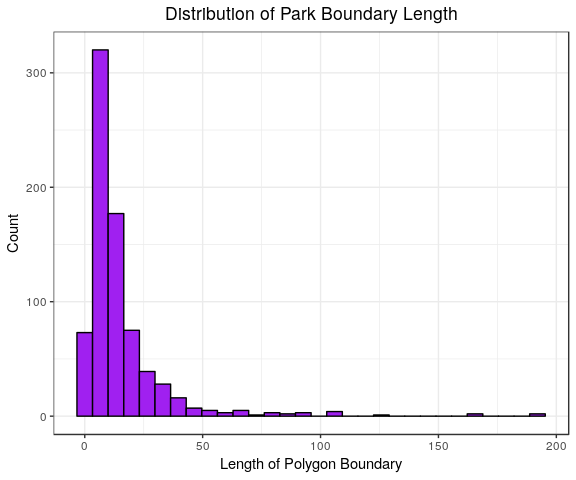
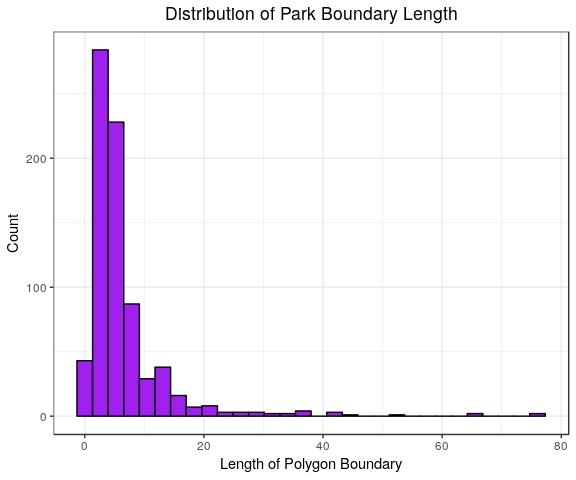
Adding final code for calling time-distance data from API and writing out .RDS files for each variable as the parallelized function runs through all the observations.

diff --git a/src/distance_exploration/osm_distance_time_calc.md b/src/distance_exploration/osm_distance_time_calc.md
@@ -24,7 +24,18 @@ osm.df    <- read_csv("./data/working/OSM_joined/7_10_2019_osm_joined.csv")
 ``` r
 osm.dim   <- dim(osm.df)
 osm.names <- names(osm.df) %>% paste0(., collapse = ", ")
+
+
+table(osm.df$variable)
 ```
+
+    ## 
+    ##       Alcohol   Convenience     Fast Food   Gas Station          Park 
+    ##            86           295           818           689         22915 
+    ##    Playground    Restaurant Sports Center   Supermarket Swimming Pool 
+    ##          4076          1490           594           950          4853 
+    ##    Team Sport         Track 
+    ##          9226          2037
 
 The dimensions of the raw data are 48029, , 5, and the variables contained are named environment, variable, object\_id, longitude, latitude.
 
@@ -66,28 +77,35 @@ park.df %>%
 
 <img src="osm_distance_time_calc_files/figure-markdown_github/unnamed-chunk-2-1.png" width="90%" />
 
+``` r
+#Actual unique number of parks
+nrow(park.df)
+```
+
+    ## [1] 766
+
 As the variability in length (analogous to the size of park) is quite high, quite a few small parks and quite a few extremely large parks. As such we will take a random sample that is proportionate to the size of the park. To do say we say we will sample 25% of the boundary points at random.
 
 ``` r
 #Mutating/sampling the spatial data by park object_id
-park.df <- park.df %>%
+park.samp.df <- park.df %>%
   mutate(
     data = map(.x = data, 
-               ~ slice(.x, sample(1:nrow(.x), (nrow(.x)/2) %>%ceiling(), replace = FALSE))
+               ~ slice(.x, sample(1:nrow(.x), (nrow(.x)/5) %>% ceiling(), replace = FALSE))
                ),
     length_new = map_dbl(data, nrow)
   )
 
 #Check out new length of Parks
-park.df$length_new %>% summary()
+park.samp.df$length_new %>% summary()
 ```
 
     ##    Min. 1st Qu.  Median    Mean 3rd Qu.    Max. 
-    ##    1.00    6.00    9.00   15.23   17.00  193.00
+    ##   1.000   3.000   4.000   6.379   7.000  77.000
 
 ``` r
 #Distribution
-park.df %>%
+park.samp.df %>%
   ggplot(aes(x = length_new)) +
   geom_histogram(fill = "purple", colour = "black") +
   labs(
@@ -99,22 +117,137 @@ park.df %>%
 
 <img src="osm_distance_time_calc_files/figure-markdown_github/unnamed-chunk-3-1.png" width="90%" />
 
-#### c. Replace PArk Data in OSM Final Data
+#### c. Alternatively make a Park centroid variable
+
+``` r
+#Mutating/sampling the spatial data by park object_id
+park.cent.df <- park.df %>%
+  mutate(
+    data = map(.x = data, 
+               ~ ifelse(nrow(data) > 2,
+                        centroid(.x) %>%
+                        as_tibble(),
+                        data %>%
+                          slice(1)
+                       )
+               )
+  ) %>% unnest()
+```
+
+#### d. Replace Park Data in OSM Final Data (either centroid or sample)
 
 ``` r
 osm.df <- osm.df %>%
   nest(-c(environment, variable)) %>%
   mutate(
     data = ifelse(variable == "Park", 
-                  park.df %>%
+                  park.samp.df %>%  #Choose which park .df
                   dplyr::select(object_id, data) %>%
                   unnest(),
                   data),
     data = map(data, as_tibble)
   )
+```
 
+#### e. For Now, filter out park; will deal with later
 
-
+``` r
 osm.df <- osm.df %>%
+  filter(variable != "Park") %>%
   unnest()
+
+nrow(osm.df)
+```
+
+    ## [1] 25114
+
+2. Calculate Distance Time
+==========================
+
+``` r
+#Gather API Keys and ID's
+api.id   <- c("3c54476f",
+              "12251934",
+              "b777323f",
+              "6969dd9f",
+              "c1c5c35f",
+              "5c7a743f",
+              "d5a88656",
+              "57763cf3"
+              )
+api.grid <- 
+  tibble(
+    api_keys = c("049992edda691331bc5bbe90dd7c6952",
+                 "b5fb14aa79e0278e065d9de3ef95dbd9",
+                 "2b20066c5d1c020b6cd5db2ab72e45f6",
+                 "5cdf18d9d77c5c8d55b1bc63f8eb026b",
+                 "5f26cdb482e3dcd1fcaceb3782d63f4e",
+                 "81946416ebd0d8542cd38d7f1488da4c",
+                 "3099b337621a7249f3b48597b86348bb",
+                 "b1aa75203ab3d3b42f1f80d14bcef026"
+              ) %>%
+                  rep(., times = ceiling(nrow(osm.df)/8)),
+    api_id  = c("3c54476f",
+                "12251934",
+                "b777323f",
+                "6969dd9f",
+                "c1c5c35f",
+                "5c7a743f",
+                "d5a88656",
+                "57763cf3"
+              ) %>%
+                  rep(., times = ceiling(nrow(osm.df)/8))
+  )
+
+api.grid <- api.grid %>%
+  slice(1:nrow(osm.df))
+
+osm.df <- bind_cols(osm.df, api.grid)
+
+#Objective Task Function
+taskFun <- function(data, i) {
+  Sys.sleep(5.6)
+  
+  traveltime_map(appId      = data$api_id[i],
+                 apiKey     = data$api_keys[i],
+                 location   = c(data$latitude[i], data$longitude[i]),
+                 traveltime = 600,
+                 type       = "driving",
+                 departure  = "2019-7-10T18:00:00Z")
+}
+
+#Nest to save .RDS each time we finish an object
+osm.df <- osm.df %>%
+  nest(-c(environment, variable))
+
+#Parallelize
+#detectCores()
+nCores <- 8
+registerDoParallel(nCores)
+
+#Initalize result list (each variable)
+result <- list()
+
+#Iterate over all variables (so we can store and save as we go *doesn't store object otherwise)
+
+for(j in 1:nrow(osm.df)) {
+  
+#Count start time for each iteration  
+#a <- Sys.time()
+
+#1 X nrow(osm.df$data) iterations 
+result[[j]] <- foreach(i = 1:nrow(osm.df$data[[j]]),
+                  .packages = "traveltime") %dopar% {
+  outSub <- taskFun(osm.df$data[[j]], i)
+  outSub
+} 
+
+#Count end time
+#b <- Sys.time()
+#print(sprintf("Iteration %i took %f seconds", j, (b - a)))
+print(sprintf("Finished %s iteration"), osm.df$variable[j])
+
+write_rds(result[[j]], sprintf("./data/working/Time_distance_files/%s.rds", 
+                               osm.df$variable[j] %>% janitor::make_clean_names()))
+}
 ```
